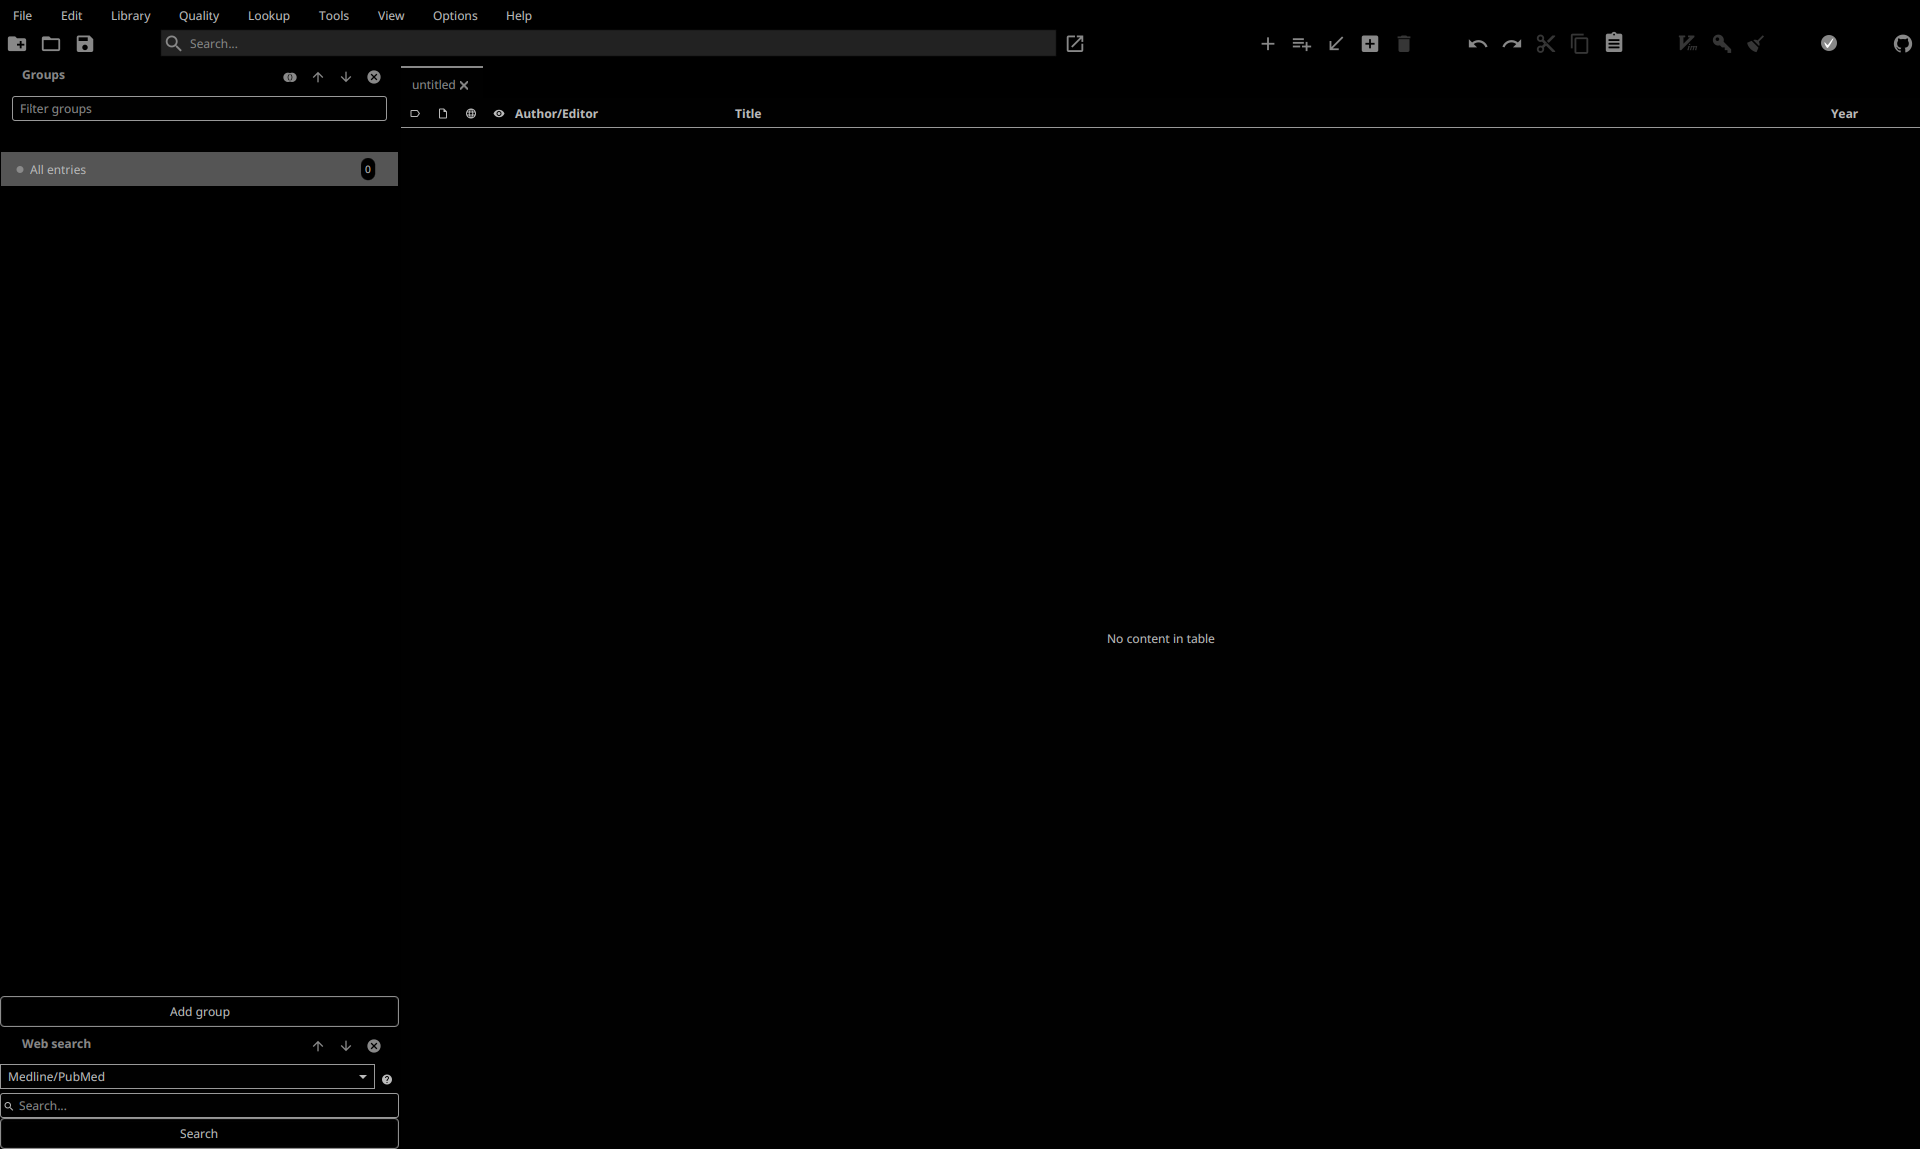
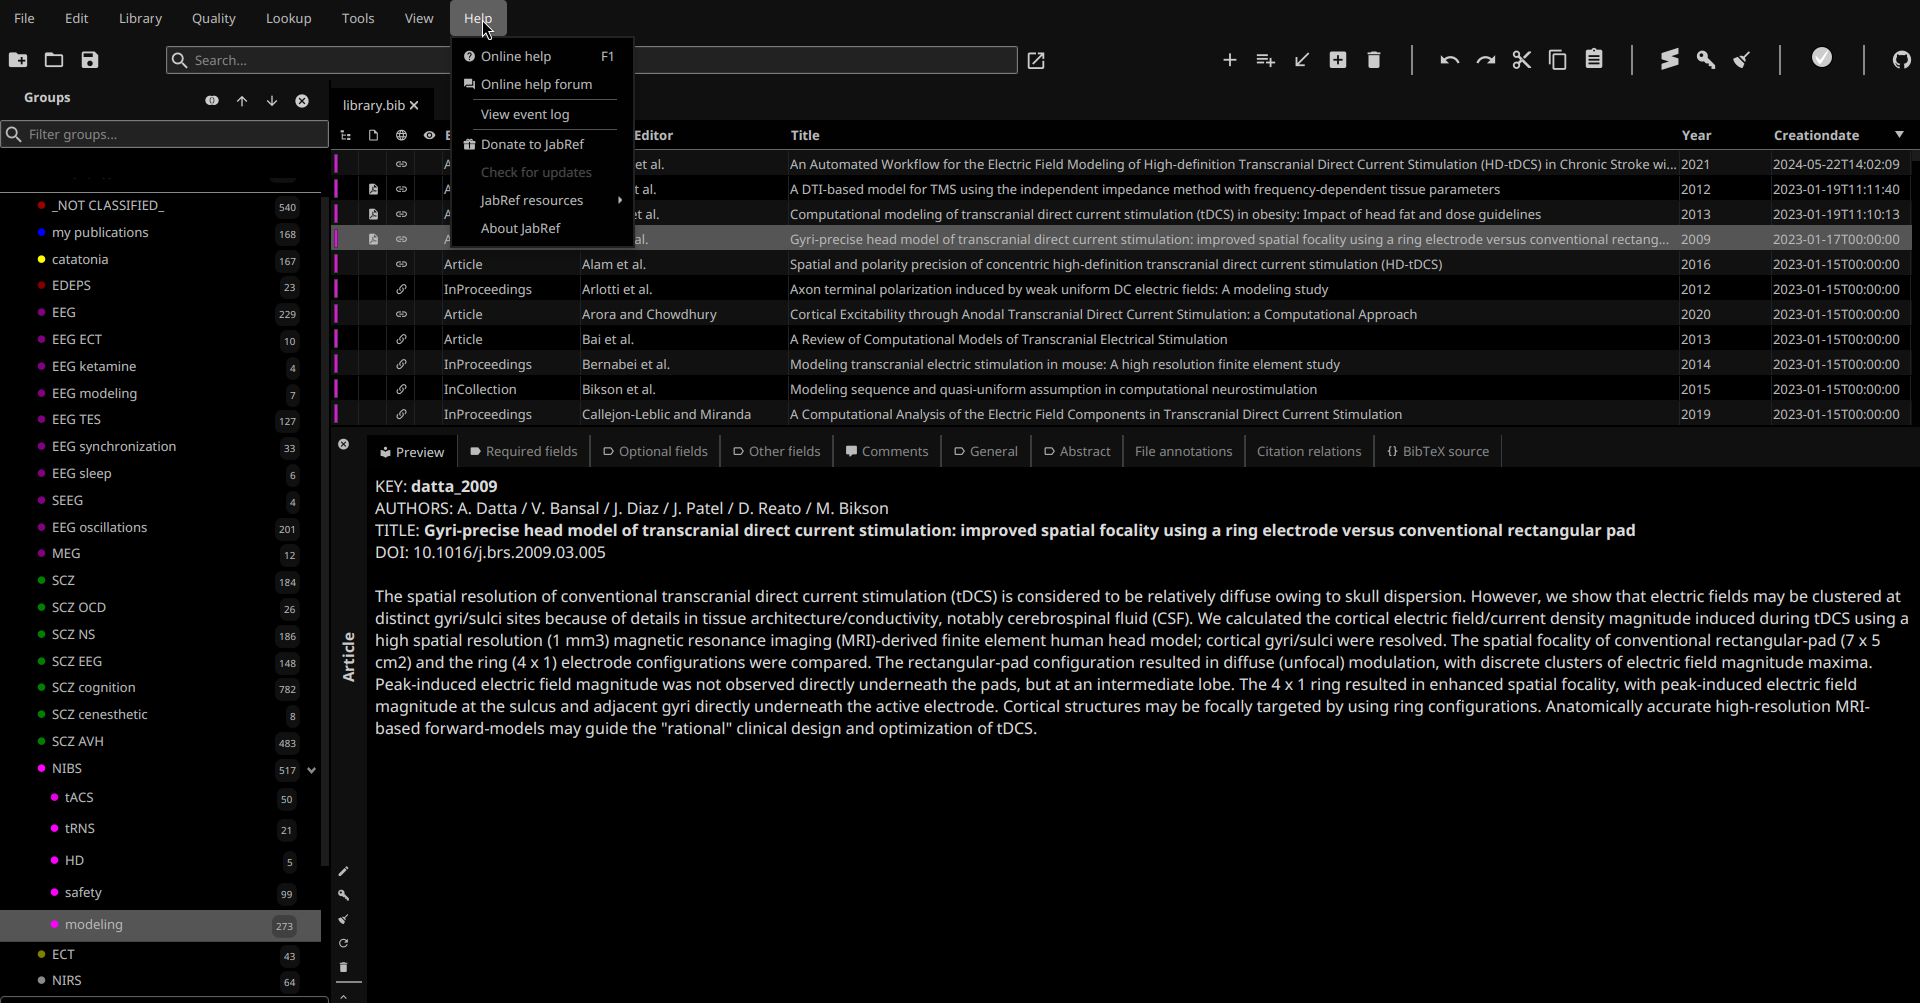
update: JabRef-black

diff --git a/themes/DarkTheme/JabRef-black/JabRef-black.css b/themes/DarkTheme/JabRef-black/JabRef-black.css
@@ -1,11 +1,11 @@
 .root {
-    -jr-theme: #aaaaaa;
+    -jr-theme: #cccccc;
     -jr-accent: #555555;
     -jr-selected: -jr-accent;
     -jr-hover: #fff5;
 
-    -jr-row-odd-background: #000000;
-    -jr-row-even-background: #222222;
+    -jr-row-odd-background: #444444;
+    -jr-row-even-background: #666666;
     -jr-accent-alt: -jr-accent;
 
     -jr-red: #b71c;
@@ -19,10 +19,10 @@
     -jr-yellow: #b5b021;
     -jr-orange: #b77620;
 
-    -jr-base: #000000;
+    -jr-base: #101010;
 
-    -jr-background-alt: #000000;
-    -jr-menu-background: #000000;
+    -jr-background-alt: #101010;
+    -jr-menu-background: #101010;
     -jr-toolbar: -jr-menu-background;
     -jr-sidepane-background: #000000;
     -jr-search-background: #222222;
@@ -38,7 +38,7 @@
     -fx-mid-text-color: #888888;
     -fx-light-text-color: #bbbbbb;
     -jr-separator: #888888;
-    -fx-outer-border: #222222;
+    -fx-outer-border: #666666;
 
     -jr-icon: -fx-light-text-color;
     -jr-icon-active: derive(-fx-light-text-color, 50%);
@@ -61,7 +61,6 @@
 
     -js-summary-text-color: derive(-fx-light-text-color, 70%);
     -js-summary-text-color-selected: derive( -fx-dark-text-color, 70%);
-
 }
 
 .unchanged {
@@ -80,7 +79,7 @@
 
 #previewBody {
     background-color: #000000; /* -fx-control-inner-background*/
-    color: #ffffff; /* -fx-mid-text-color*/
+    color: #dddddd; /* -fx-mid-text-color*/
 }
 
 .custom-color-dialog {

diff --git a/themes/DarkTheme/JabRef-black/README.md b/themes/DarkTheme/JabRef-black/README.md
@@ -6,6 +6,4 @@ Black minimalist theme for JabRef.
 
 Download the .css file and in JabRef click on Options → Preferences, then on the Import theme button in the lower-left corner. Now navigate to your CSS file using the opened dialog box, select your file and click open.
 
-This theme was created by [Adam Wysokiński](https://fediscience.org/@adam_wysokinski).
-
 This software is licensed under [The 2-Clause BSD License](LICENSE).
